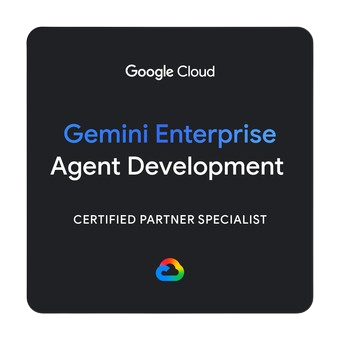
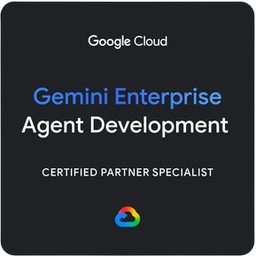
Address review on new certificates and tidy up content
- Gemini certs: Credly confirmation links, consistent titles, subtitles
  fixed (colon, no "The", no trailing space, no "certification" suffix)
- OpenAI cert: subtitle is the credential name, not a description;
  drop the tracking fragment from the confirmation link
- Revert unrelated main.js changes
- Trim and compress the new badge images to 256px (originals kept as
  -source.png); OpenAI badge as webp (156 KB -> 18 KB)

diff --git a/data/certificationData.js b/data/certificationData.js
@@ -25,23 +25,21 @@ export const certificationData = {
         "https://www.credly.com/badges/8b28bb47-aaa5-4986-872b-afa51fe70bd0/",
     },
     {
-      title:
-        "Certified Partner Specialist: Gemini Enterprise Agent Development",
+      title: "Gemini Enterprise Agent Development",
       img: "./assets/certificate/gemini_agent_development.png",
       subtitle:
-        "Certified Partner Specialist: Gemini Enterprise Agent Development certification",
+        "Certified Partner Specialist: Gemini Enterprise Agent Development",
       link: "https://rsvp.withgoogle.com/events/partner-learning/cps",
       confirmationLink:
-        "https://rsvp.withgoogle.com/events/partner-learning/cps",
+        "https://www.credly.com/badges/a490b94c-448e-4969-8cd2-4de707102a45",
     },
     {
       title: "OpenAI Cyber Solutions Practitioner",
-      img: "./assets/certificate/openai_cyber_solutions_practitioner.png",
-      subtitle:
-        "Recognizes the ability to position, qualify, and safely route authorized defensive cyber opportunities to appropriate workflows and access paths.",
+      img: "./assets/certificate/openai_cyber_solutions_practitioner.webp",
+      subtitle: "OpenAI Partner Network: Cyber Solutions Practitioner",
       link: "https://openai.com/business/partners/",
       confirmationLink:
-        "https://oaipartnernetwork.credential.net/ba85e935-087d-4600-83cb-88a923e4f349#acc.C8qLYj6o",
+        "https://oaipartnernetwork.credential.net/ba85e935-087d-4600-83cb-88a923e4f349",
     },
   ],
   Cloud: [
@@ -72,11 +70,10 @@ export const certificationData = {
     {
       title: "Gemini Enterprise Deployment",
       img: "./assets/certificate/gemini_deployment_cert.png",
-      subtitle:
-        "The Certified Partner Specialist Gemini Enterprise Deployment ",
+      subtitle: "Certified Partner Specialist: Gemini Enterprise Deployment",
       link: "https://rsvp.withgoogle.com/events/partner-learning/cps",
       confirmationLink:
-        "https://rsvp.withgoogle.com/events/partner-learning/cps",
+        "https://www.credly.com/badges/1753c157-dec1-4b03-a80d-67b43af68a4a",
     },
   ],
 };

diff --git a/main.js b/main.js
@@ -5,6 +5,8 @@ import "./components/personal_project.js";
 import "./components/notification.js";
 import { updateLandingPageViews } from "./utils/counter.js";
 
+// Call the function when the DOM is ready
 document.addEventListener("DOMContentLoaded", () => {
   updateLandingPageViews();
 });
+
